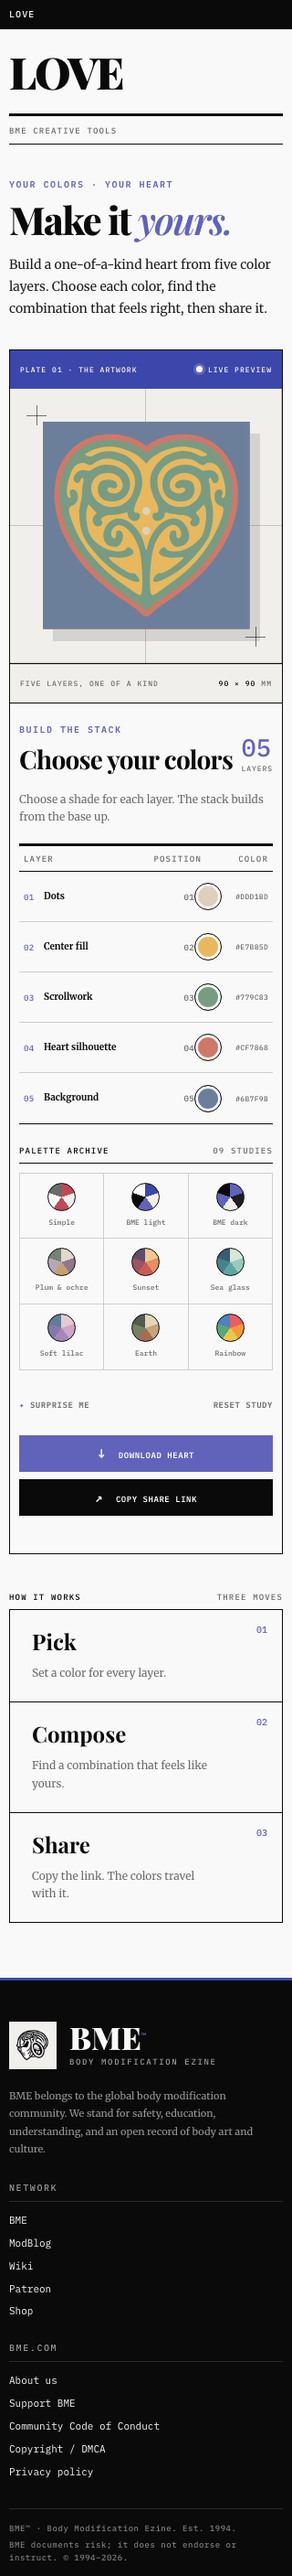
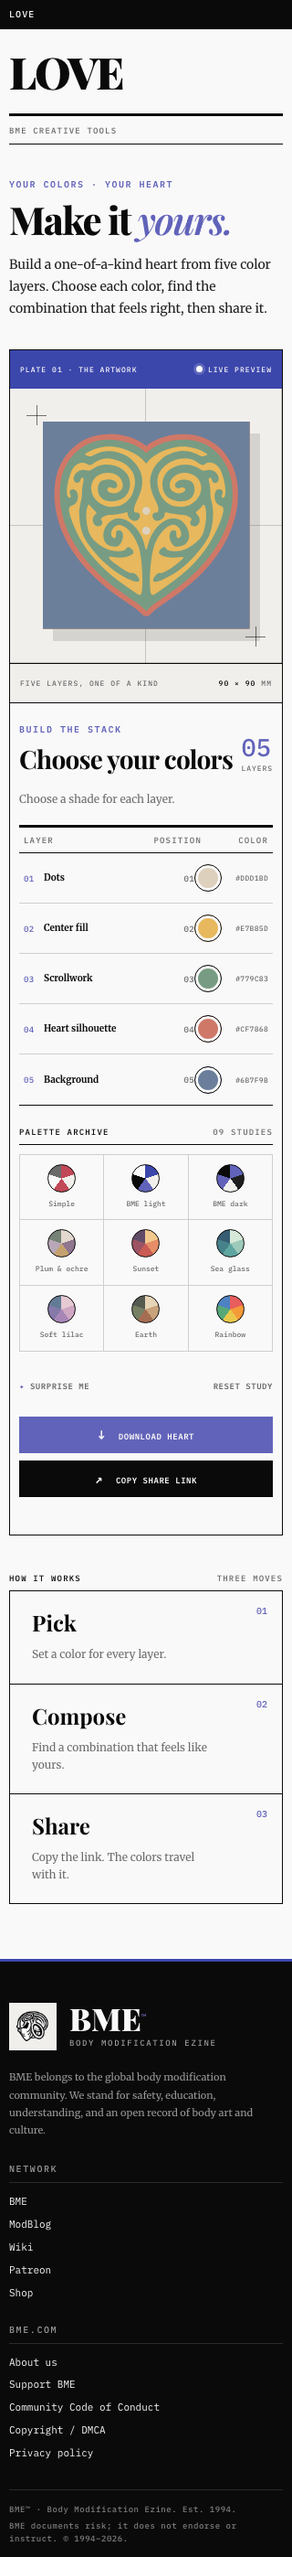
Remove layer stack helper copy

diff --git a/index.html b/index.html
@@ -50,7 +50,7 @@
             <div><p class="eyebrow">Build the stack</p><h2 id="colors-title">Choose your colors</h2></div>
             <span class="layer-count">05 <small>layers</small></span>
           </div>
-          <p class="controls-copy">Choose a shade for each layer. The stack builds from the base up.</p>
+          <p class="controls-copy">Choose a shade for each layer.</p>
           <div class="column-labels" aria-hidden="true"><span>Layer</span><span>Position</span><span>Color</span></div>
           <div id="layer-controls" class="layer-list" aria-label="Heart layer colors"></div>
 
